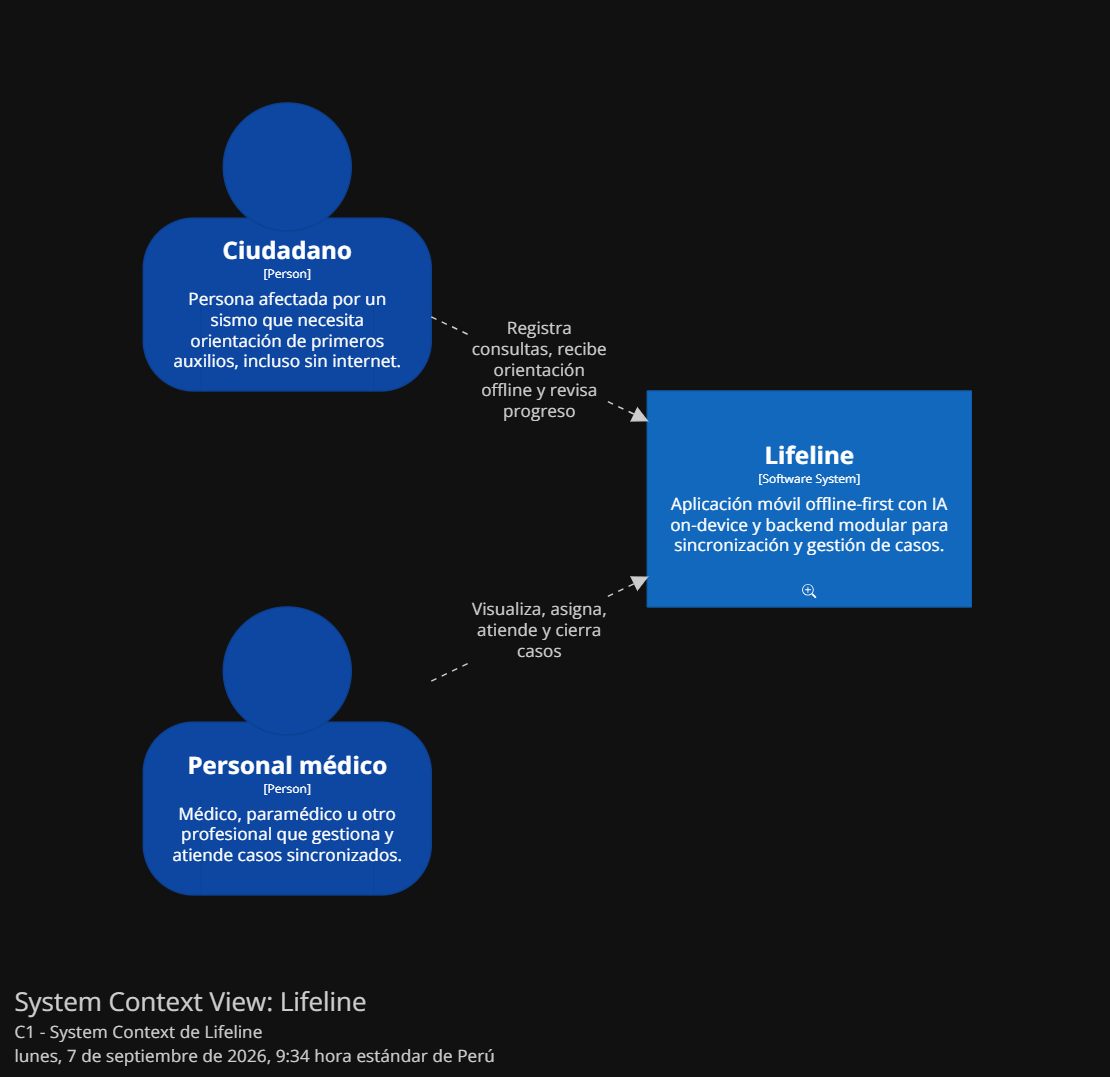
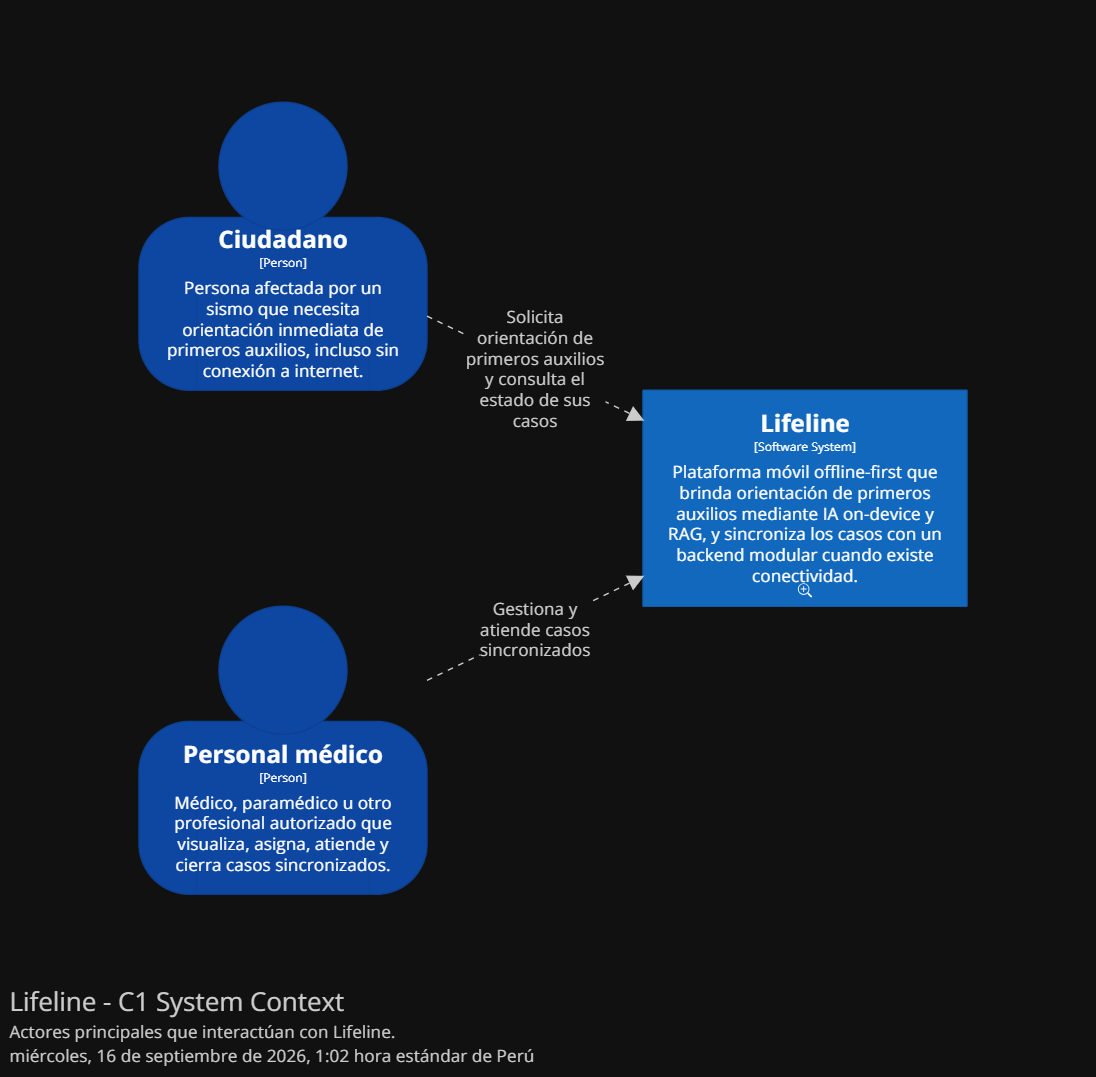
C3

diff --git a/README.md b/README.md
@@ -129,6 +129,7 @@
     - [4.3.2. Software Architecture Context Level Diagrams](#432-software-architecture-context-level-diagrams)
     - [4.3.3. Software Architecture Container Level Diagrams](#433-software-architecture-container-level-diagrams)
     - [4.3.4. Software Architecture Deployment Diagrams](#434-software-architecture-deployment-diagrams)
+    - [4.3.5. Software Architecture Component Level Diagrams](#435-software-architecture-component-level-diagrams)
 - [Capítulo V: Tactical-Level Software Design](#capítulo-v-tactical-level-software-design)
   - [5.X. Bounded Context: Nombre del Bounded Context](#5x-bounded-context-nombre-del-bounded-context)
     - [5.X.1. Domain Layer](#5x1-domain-layer)
@@ -2026,7 +2027,35 @@ El siguiente diagrama, generado con **ContextMapper**, resume la relación estru
 ### 4.3.4. Software Architecture Deployment Diagrams
 
 <p align="center">
-  <img src="public/assets/images/chapter-4/Deployment Diagrams.png" alt="C2 - Software Architecture Deployment Diagram - Lifeline">
+  <img src="public/assets/images/chapter-4/Deployment Diagrams.png" alt="Deployment - Software Architecture Deployment Diagram - Lifeline">
+</p>
+
+### 4.3.5. Software Architecture Component Level Diagrams
+
+A continuación se presentan los diagramas de componentes (C3) por bounded context, desglosando la estructura interna de cada módulo definido en el nivel de contenedores.
+
+**Consultation**
+
+<p align="center">
+  <img src="public/assets/images/chapter-4/C3-Consultation.png" alt="C3 - Component Level Diagram - Consultation">
+</p>
+
+**Medical Bases**
+
+<p align="center">
+  <img src="public/assets/images/chapter-4/C3-Medical Bases.png" alt="C3 - Component Level Diagram - Medical Bases">
+</p>
+
+**Case Management**
+
+<p align="center">
+  <img src="public/assets/images/chapter-4/C3-Case Management.png" alt="C3 - Component Level Diagram - Case Management">
+</p>
+
+**IAM**
+
+<p align="center">
+  <img src="public/assets/images/chapter-4/C3-IAM.png" alt="C3 - Component Level Diagram - IAM">
 </p>
 
 # Capítulo V: Tactical-Level Software Design
